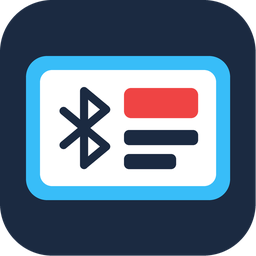
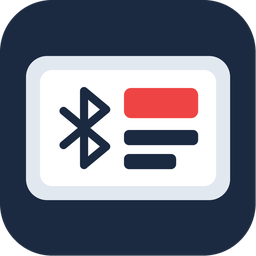
chore: change ESL bezel color to realistic off-white plastic (#328)

Changed region(s): [[0.0938, 0.2188, 0.9062, 0.8125]]

diff --git a/scripts/generate_brand.py b/scripts/generate_brand.py
@@ -1,10 +1,11 @@
 """Generate Home Assistant brand images for BLE ESL.
 
 The artwork is an original geometric brand mark on a dark navy rounded square:
-a centered cyan and white electronic shelf label (e-paper display tag) featuring
-a bold Bluetooth rune and clean tri-color display blocks. Drawn from geometric
-primitives at 4x scale and downsampled, so no source image, external font file,
-or network access is needed. Run with Pillow 12.3.0 for reproducible PNGs.
+a centered electronic shelf label (e-paper display tag) with an off-white / light-gray
+plastic housing bezel, crisp white e-paper screen, bold Bluetooth rune, and clean
+tri-color display blocks. Drawn from geometric primitives at 4x scale and
+downsampled, so no source image, external font file, or network access is needed.
+Run with Pillow 12.3.0 for reproducible PNGs.
 """
 
 from __future__ import annotations
@@ -18,9 +19,9 @@ BRAND = Path(__file__).resolve().parents[1] / "custom_components/ble_esl/brand"
 SIZE = 512
 SCALE = 4
 NAVY = "#1b2a41"
-CYAN = "#38bdf8"
-WHITE = "#ffffff"
-CORAL = "#ef4444"
+BEZEL = "#e2e8f0"  # Realistic ESL off-white / light slate plastic casing
+WHITE = "#ffffff"  # E-paper display screen
+CORAL = "#ef4444"  # Tri-color E-paper red accent
 WORDMARK = "#0ea5e9"
 
 
@@ -88,8 +89,8 @@ def draw_icon() -> Image.Image:
     # 1. Dark navy rounded square background.
     d.rounded_rectangle(box(0, 0, SIZE - 1, SIZE - 1), radius=104 * s, fill=NAVY)
 
-    # 2. Centered ESL tag bezel (cyan) + inner E-Ink screen (white).
-    d.rounded_rectangle(box(52, 112, 460, 400), radius=42 * s, fill=CYAN)
+    # 2. Centered ESL tag bezel (realistic light gray/off-white plastic casing) + inner E-Ink screen (white).
+    d.rounded_rectangle(box(52, 112, 460, 400), radius=42 * s, fill=BEZEL)
     d.rounded_rectangle(box(80, 140, 432, 372), radius=24 * s, fill=WHITE)
 
     # 3. Bold, simple elements inside the E-Ink screen:

diff --git a/custom_components/ble_esl/brand/README.md b/custom_components/ble_esl/brand/README.md
@@ -2,14 +2,14 @@
 
 Generated by python3 scripts/generate_brand.py using Pillow (ImageFont.load_default(size=...)).
 
-- Motif: a centered electronic shelf label tag with a cyan rounded bezel, crisp white e-paper screen, bold Bluetooth rune on the left, and a red price block plus two thick navy bars on the right, paired with a clean BLE ESL wordmark for horizontal logos.
+- Motif: a centered electronic shelf label tag with an off-white/light-gray plastic housing bezel, crisp white e-paper screen, bold Bluetooth rune on the left, and a red price block plus two thick navy bars on the right, paired with a clean BLE ESL wordmark for horizontal logos.
 - Sizes:
   - icon@2x.png: 512x512
   - icon.png: 256x256
   - logo@2x.png: 1830x512
   - logo.png: 915x256
 - SHA256:
-  - icon@2x.png: a3ab262c097e89ff2da0d8873d046e6c6b685a08f4661d33343c25317aefc7a4
-  - icon.png: c3a9cca93abfb216a3c09f68eaadb107510fd0741bd7c519ea8d345c2c8fdb50
-  - logo@2x.png: 1406beabcbbbddcf7b8d4d02e761fcfae4fbeb67417145e0c3f3068f4192aa88
-  - logo.png: 36f3be9054d2590fb64a3b866a8eb5292826bb96c9175ef02cb2491de57e70af
+  - icon@2x.png: 25f87fe0fc2c1f00b2ae4923091315e000399145471793c610ecd16e08221c24
+  - icon.png: db21a56acaf71029c021bb4c60f3b5e442bcf6db979f24fc5c4da2509d4bb748
+  - logo@2x.png: 80e777cc161aef36cab30bae5cdc0ebd1d3446a527e34b01e9b30c2545aca789
+  - logo.png: c3e73368660cdb34285eec9fad5fc96da72b795ddecf8d5154b9367a8912d303
